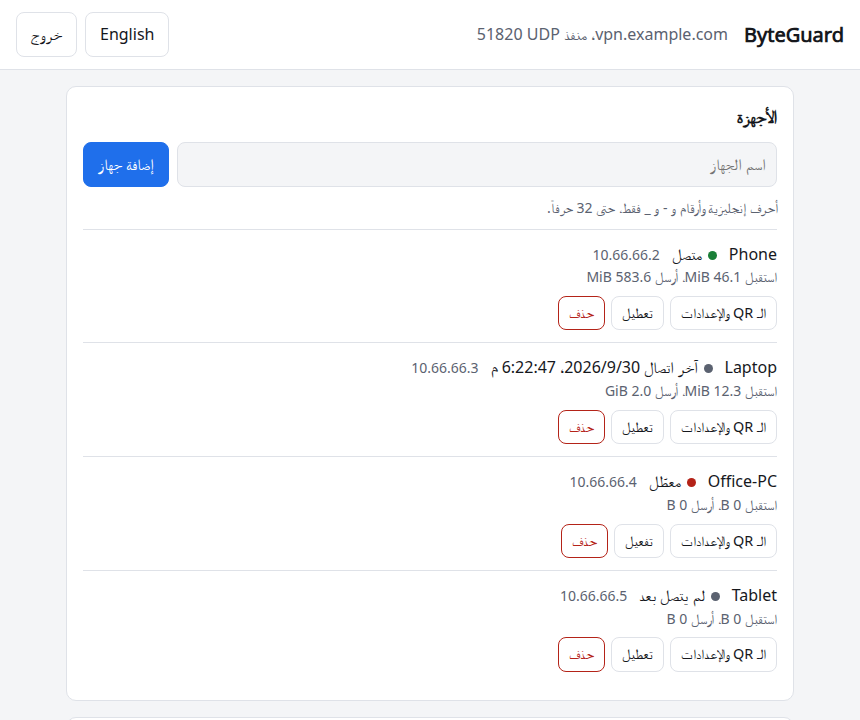
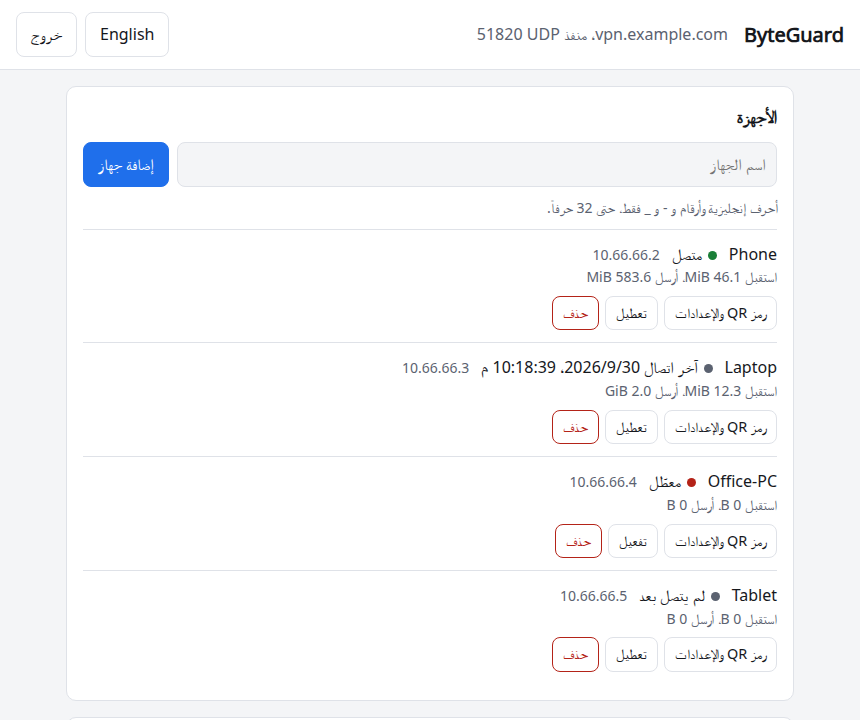
Verify the installer, state what leaves the server, and write the Arabic texts formally (#19)
* Show how to verify the installer and say exactly what leaves the server

From a code review of the short install link:

- Both READMEs now give the direct GitHub download as an alternative and
  the commands to check the file against the checksum published with the
  release. The checksum is fetched from GitHub, not through the redirect.
- The Arabic README had no GitHub address left at all; it now has the
  same three commands as the English one.
- "No hosted service" was no longer accurate once installs pass through
  the website's redirect. The READMEs now say ByteGuard collects no data
  and that keys and devices go only to the chosen backup destinations.
  SECURITY.md lists every outside request the program makes and states
  that the short address is served by the project's website.
- The sentence after the web interface screenshot had come apart from
  its paragraph.

Claude-Session: https://claude.ai/code/session_01H4NZZcFmksnA6aNf2XziFn

* Write the Arabic texts in formal Arabic, speaking as we to you all

The Arabic README and the web interface's Arabic strings mixed in
dialect words (سيرفر، دومين، ترافيك) and addressed the reader in the
singular. Business texts in Arabic speak as نحن and address readers as
أنتم, so both are rewritten that way in Modern Standard Arabic. The
Arabic screenshot is retaken to show the new strings.

Claude-Session: https://claude.ai/code/session_01H4NZZcFmksnA6aNf2XziFn

* Drop the plural commands from the Arabic texts
[…]

diff --git a/README.ar.md b/README.ar.md
@@ -8,7 +8,7 @@
 
 [English](README.md)
 
-ByteGuard ينصّب سيرفر WireGuard على جهازك بأمر واحد، ويتيح لك إدارة الأجهزة من صفحة ويب، ويعيد كل الإعدادات من ملف نسخة احتياطية واحد بعد إعادة تثبيت السيرفر.
+نقدّم لكم ByteGuard لتنصيب خادم WireGuard على خادمكم بأمر واحد، وإدارة أجهزتكم من صفحة ويب، واستعادة إعداداتكم كاملةً من ملف نسخة احتياطية واحد بعد إعادة تثبيت الخادم.
 
 <p align="center">
   <img src="assets/screenshots/devices-ar.png" alt="واجهة الويب: الأجهزة وحالة اتصالها واستهلاكها" width="620">
@@ -16,7 +16,7 @@ ByteGuard ينصّب سيرفر WireGuard على جهازك بأمر واحد، 
 
 ## التنصيب
 
-على سيرفر Ubuntu 22.04 أو أحدث، أو Debian 12 أو أحدث:
+على خادم يعمل بنظام Ubuntu 22.04 أو أحدث، أو Debian 12 أو أحدث:
 
 <div dir="ltr">
 
@@ -27,49 +27,70 @@ sudo bash byteguard.sh
 
 </div>
 
-البرنامج مضمّن داخل ملف التنصيب كنص مقروء، فتستطيع قراءته قبل تشغيله، ومع كل إصدار ملف `byteguard.sh.sha256` للتحقق منه.
+يحوّل هذا العنوان إلى آخر إصدار على GitHub، ويمكنكم التنزيل من GitHub مباشرة:
 
-## ماذا يفعل
+<div dir="ltr">
 
-- **إعداد موجّه:** يكتشف كرت الشبكة المتصل بالإنترنت وعنوان السيرفر العام ويطلب تأكيدهما، ثم يسأل عن المنفذ (الافتراضي `51820`).
-- **كل ترافيك الأجهزة يمر عبر السيرفر**، مع `PersistentKeepalive = 25` و `MTU = 1420`.
-- **إدارة الأجهزة:** إضافة وحذف وتعطيل مؤقت، وعرض رمز QR في أي وقت، من الطرفية أو من الواجهة.
-- **نسخة احتياطية بعد كل تعديل** دون أي ضغطة. النسخة ملف واحد قابل للتشغيل: شغّله على سيرفر جديد فيعود الـ VPN بنفس المفاتيح، وتتصل الأجهزة دون إعدادات جديدة. تُحفظ في `/var/backups/byteguard/`، ويمكن إرسالها إلى محادثة Telegram ورفعها إلى تخزين متوافق مع S3 مثل Cloudflare R2.
-- **واجهة ويب بالعربية والإنجليزية**، لا تعمل إلا من داخل الـ VPN.
-- **اختيارياً:** الواجهة على دومينك عبر Cloudflare Tunnel دون فتح أي منفذ. ينشئ ByteGuard نفقاً خاصاً به ولا يلمس أي نفق موجود على السيرفر.
-- **يحترم الجدار الناري الموجود:** يضيف قواعد ufw أو iptables دون مسح أي شيء، وإزالة التنصيب تحذف ما أضافه فقط.
+```bash
+curl -fsSL https://github.com/kenanwahbeh/ByteGuard/releases/latest/download/byteguard.sh -o byteguard.sh
+```
 
-كل شيء يعمل على سيرفرك وبحساباتك أنت. ByteGuard لا يملك خدمة مستضافة ولا يجمع أي بيانات.
+</div>
+
+وللتحقق من الملف قبل تشغيله، يمكن مقارنته ببصمة SHA-256 المنشورة مع الإصدار:
+
+<div dir="ltr">
+
+```bash
+curl -fsSLO https://github.com/kenanwahbeh/ByteGuard/releases/latest/download/byteguard.sh.sha256
+sha256sum -c byteguard.sh.sha256
+```
+
+</div>
+
+وقد ضمّنّا البرنامج داخل ملف التنصيب نصاً مقروءاً، فتستطيعون أيضاً قراءته قبل تشغيله.
+
+## ما نقدّمه
+
+- **إعداد موجّه:** نكتشف بطاقة الشبكة المتصلة بالإنترنت وعنوان الخادم العام ونطلب منكم تأكيدهما، ثم نسألكم عن المنفذ (الافتراضي `51820`).
+- **تمرّ حركة بيانات أجهزتكم كلها عبر الخادم**، مع `PersistentKeepalive = 25` و `MTU = 1420`.
+- **إدارة الأجهزة:** إضافتها وحذفها وتعطيلها مؤقتاً، وعرض رمز QR لأي جهاز في أي وقت، من الطرفية أو من الواجهة.
+- **نسخة احتياطية بعد كل تعديل** دون أي إجراء منكم. والنسخة ملف واحد يكفي تشغيله على خادم جديد لتعود الشبكة بالمفاتيح نفسها، وتتصل أجهزتكم دون إعدادات جديدة. نحفظ النسخة في `/var/backups/byteguard/`، ويمكننا إرسالها إلى محادثتكم على Telegram ورفعها إلى تخزين متوافق مع S3 مثل Cloudflare R2.
+- **واجهة ويب بالعربية والإنجليزية**، لا تعمل إلا من داخل الشبكة الافتراضية الخاصة (VPN).
+- **اختيارياً:** الواجهة على نطاقكم عبر Cloudflare Tunnel دون فتح أي منفذ. ننشئ لها نفقاً خاصاً، ولا نمسّ أي نفق موجود على الخادم.
+- **نحترم الجدار الناري القائم:** نضيف قواعد ufw أو iptables دون حذف أي قاعدة موجودة، وعند إزالة التنصيب نحذف ما أضفناه فقط.
+
+يعمل كل شيء على خادمكم وبحساباتكم أنتم. لا نجمع أي بيانات، ولا تخرج مفاتيحكم وأجهزتكم إلا إلى وجهات النسخ الاحتياطي التي تختارونها.
 
 ## الأوامر
 
-بعد التنصيب يفتح `sudo byteguard` قائمة، ونفس الإجراءات متاحة كأوامر:
+بعد التنصيب يفتح الأمر `sudo byteguard` قائمةً، والإجراءات نفسها متاحة أوامرَ مستقلة:
 
-| الأمر | ماذا يفعل |
+| الأمر | الوظيفة |
 |---|---|
 | `sudo byteguard add NAME` | إضافة جهاز وعرض إعداداته ورمز QR |
 | `sudo byteguard show NAME` | عرض إعدادات جهاز ورمز QR مرة أخرى |
 | `sudo byteguard list` | قائمة الأجهزة |
-| `sudo byteguard status` | من المتصل واستهلاك كل جهاز |
+| `sudo byteguard status` | الأجهزة المتصلة واستهلاك كل جهاز |
 | `sudo byteguard disable NAME` | منع جهاز من الاتصال دون حذفه (`enable` يعيده) |
 | `sudo byteguard remove NAME` | حذف جهاز |
-| `sudo byteguard port NUMBER` | نقل الـ VPN إلى منفذ آخر؛ كل جهاز يحتاج إعداداته من جديد |
-| `sudo byteguard ui setup` | تشغيل الواجهة وتعيين كلمة سرها (`ui off` يوقفها) |
-| `sudo byteguard ui tunnel` | الواجهة على دومينك عبر Cloudflare (`--off` يوقفها) |
-| `sudo byteguard backup` | نسخة احتياطية الآن |
-| `sudo byteguard backup telegram` | إرسال كل نسخة إلى Telegram عبر bot خاص بك |
+| `sudo byteguard port NUMBER` | نقل الشبكة إلى منفذ آخر، ويحتاج كل جهاز بعدها إلى إعداداته من جديد |
+| `sudo byteguard ui setup` | تشغيل الواجهة وتعيين كلمة مرورها (`ui off` يوقفها) |
+| `sudo byteguard ui tunnel` | الواجهة على نطاقكم عبر Cloudflare (`--off` يوقفها) |
+| `sudo byteguard backup` | نسخة احتياطية فورية |
+| `sudo byteguard backup telegram` | إرسال كل نسخة إلى Telegram عبر بوت خاص بكم |
 | `sudo byteguard backup s3` | رفع كل نسخة إلى R2 أو أي تخزين متوافق مع S3 |
-| `sudo byteguard uninstall` | إزالة الـ VPN ومفاتيحه و ByteGuard |
+| `sudo byteguard uninstall` | إزالة الشبكة ومفاتيحها و ByteGuard |
 
 ## الواجهة
 
-`sudo byteguard ui setup` يطلب كلمة سر ويشغّل الواجهة على عنوان السيرفر داخل الـ VPN، مثل `http://10.66.66.1:51821`. افتحها من جهاز متصل بالـ VPN؛ من أي مكان آخر لا يجيب العنوان. ثماني كلمات سر خاطئة من نفس العنوان تقفل الدخول منه خمس دقائق، دون أن تؤثر على غيره.
+عند تشغيل `sudo byteguard ui setup` نطلب منكم كلمة مرور، ثم نشغّل الواجهة على عنوان الخادم داخل الشبكة، مثل `http://10.66.66.1:51821`. ولا تُفتح إلا من جهاز متصل بالشبكة، إذ لا يجيب العنوان من أي مكان آخر. وإذا أُدخلت ثماني كلمات مرور خاطئة من عنوان واحد، نُقفل الدخول منه خمس دقائق دون أن يتأثر غيره.
 
-مع `sudo byteguard ui tunnel` تصبح الواجهة على عنوان مثل `https://vpn.example.com`. يحتاج ذلك دوميناً في حسابك على Cloudflare (الخطة المجانية تكفي). بعد تفعيلها يصل أي شخص يعرف العنوان إلى صفحة الدخول، فاستخدم كلمة سر قوية، ويُفضّل وضع Cloudflare Access أمامها.
+ومع `sudo byteguard ui tunnel` تصبح الواجهة متاحة على عنوان مثل `https://vpn.example.com`. يتطلب ذلك نطاقاً في حسابكم على Cloudflare، وتكفي الخطة المجانية. وبعد تفعيلها يستطيع كل من يعرف العنوان الوصول إلى صفحة الدخول، لذا ننصحكم بكلمة مرور قوية، ويُستحسن وضع Cloudflare Access أمامها.
 
-## الاسترجاع
+## الاستعادة
 
-انسخ ملف النسخة الاحتياطية إلى سيرفر جديد وشغّله:
+لاستعادة الإعدادات يكفي نسخ ملف النسخة الاحتياطية إلى خادم جديد وتشغيله:
 
 <div dir="ltr">
 
@@ -79,13 +100,13 @@ sudo bash byteguard-backup-NAME.sh
 
 </div>
 
-تتصل الأجهزة وحدها إذا كان للسيرفر الجديد نفس العنوان العام. إذا تغيّر العنوان، مرّر `--endpoint NEW_ADDRESS`، وعندها يحتاج كل جهاز إعداداته من جديد.
+تتصل الأجهزة تلقائياً إذا كان للخادم الجديد العنوان العام نفسه. أما إذا تغيّر العنوان، فيُضاف الخيار `--endpoint NEW_ADDRESS` إلى أمر التشغيل، وعندها يحتاج كل جهاز إلى إعداداته من جديد.
 
-**النسخة الاحتياطية غير مشفّرة.** تحتوي مفتاح السيرفر ومفاتيح كل الأجهزة ورموز Telegram والتخزين. من يحصل عليها يستطيع الاتصال بالـ VPN، فاحفظها هي والمحادثة والـ bucket في مكان خاص. التفاصيل في [SECURITY.md](SECURITY.md).
+**النسخة الاحتياطية غير مشفّرة.** فهي تحتوي مفتاح الخادم ومفاتيح جميع الأجهزة ورموز Telegram والتخزين، ومن يحصل عليها يستطيع الاتصال بشبكتكم. لذا يجب حفظها، هي والمحادثة والحاوية (bucket)، في مكان خاص. التفاصيل في [SECURITY.md](SECURITY.md).
 
 ## الدعم
 
-إذا كان المشروع مفيداً لك، يمكنك دعم تطويره عبر Binance Pay: افتح تطبيق Binance وامسح الرمز أدناه، أو ابحث عن الاسم **Kinan125**.
+إن وجدتم المشروع مفيداً، يمكنكم دعم تطويره عبر Binance Pay، بمسح الرمز أدناه من تطبيق Binance أو بالبحث عن الاسم **Kinan125**.
 
 <p align="center">
   <img src="assets/binance.jpg" alt="رمز Binance Pay - Kinan125" width="280">
@@ -93,8 +114,8 @@ sudo bash byteguard-backup-NAME.sh
 
 ## الترخيص
 
-MIT، انظر [LICENSE](LICENSE).
+MIT، والتفاصيل في ملف [LICENSE](LICENSE).
 
-WireGuard علامة تجارية مسجّلة لـ Jason A. Donenfeld. ByteGuard مشروع مستقل وغير تابع لمشروع WireGuard أو معتمد منه.
+WireGuard علامة تجارية مسجّلة لـ Jason A. Donenfeld، ومشروعنا ByteGuard مستقل، غير تابع لمشروع WireGuard ولا معتمد منه.
 
 </div>

diff --git a/README.md b/README.md
@@ -25,11 +25,24 @@ curl -fsSL https://bytebalancetech.com/byteguard.sh -o byteguard.sh
 sudo bash byteguard.sh
 ```
 
-The link leads to the latest release on GitHub, which also carries
-`byteguard.sh.sha256`, and the program is
-embedded in the installer as plain text, so you can read it before running
-it. Version 1, the old single-file script, stays available as release
-[v1.0.0](https://github.com/kenanwahbeh/ByteGuard/releases/tag/v1.0.0);
+This address redirects to the latest release on GitHub. You can also
+download from GitHub directly:
+
+```bash
+curl -fsSL https://github.com/kenanwahbeh/ByteGuard/releases/latest/download/byteguard.sh -o byteguard.sh
+```
+
+To check the file before running it, compare it with the checksum
+published with the release:
+
+```bash
+curl -fsSLO https://github.com/kenanwahbeh/ByteGuard/releases/latest/download/byteguard.sh.sha256
+sha256sum -c byteguard.sh.sha256
+```
+
+The program is embedded in the installer as plain text, so you can also
+read it before running it. Version 1, the old single-file script, stays
+available as release [v1.0.0](https://github.com/kenanwahbeh/ByteGuard/releases/tag/v1.0.0);
 version 2 does not import its data.
 
 ## What it does
@@ -62,8 +75,9 @@ version 2 does not import its data.
   Tunnel, with no port opened. ByteGuard creates a tunnel of its own and
   never touches a cloudflared that is already on the server.
 
-Everything runs on your server and your own accounts. ByteGuard has no
-hosted service and collects no data.
+Everything runs on your server and your own accounts. ByteGuard collects no
+data, and your keys and devices go nowhere except the backup destinations
+you choose.
 
 ## Setup
 
@@ -104,13 +118,12 @@ The server's keys and the devices are stored in
 `sudo byteguard ui setup` asks for a password and turns the web interface
 on at `http://<server's VPN address>:51821`, for example
 `http://10.66.66.1:51821`. Open it from a device that is connected to the
-VPN; from anywhere else the address does not answer.
+VPN; from anywhere else the address does not answer. The page is in
+English or Arabic, and the button in the top corner switches between them.
 
 <p align="center">
   <img src="assets/screenshots/web-en.png" alt="The whole web interface: devices, backups, Telegram and S3 storage" width="520">
 </p>
- The page is in
-English or Arabic, and the button in the top corner switches between them.
 
 The interface runs as its own service with a read-only view of the system
 apart from ByteGuard's files. Eight wrong passwords from the same address

diff --git a/SECURITY.md b/SECURITY.md
@@ -49,5 +49,24 @@ IP forwarding off, because other software such as Docker may rely on it.
 It never touches a WireGuard setup or a Cloudflare tunnel it did not
 create.
 
-ByteGuard has no hosted service and sends nothing anywhere except to the
-backup destinations you configure.
+## Outside connections
+
+ByteGuard collects no data. Your keys and devices leave the server only
+as backups, and only to the destinations you configure. The program also
+makes these requests, none of which carries your data:
+
+- during setup, `api.ipify.org` (or `icanhazip.com`) to suggest the
+  server's public address;
+- with `byteguard ui tunnel`, `cloudflare-dns.com` to check the domain's
+  name servers, and GitHub to download `cloudflared` if it is missing.
+
+The short install address `bytebalancetech.com/byteguard.sh` is a redirect
+served by the project's website, which sees the download request as any
+website does. Downloading from GitHub directly, as the README shows, skips
+that step. Either way, check the file against the `byteguard.sh.sha256`
+published with the release on GitHub:
+
+```bash
+curl -fsSLO https://github.com/kenanwahbeh/ByteGuard/releases/latest/download/byteguard.sh.sha256
+sha256sum -c byteguard.sh.sha256
+```
